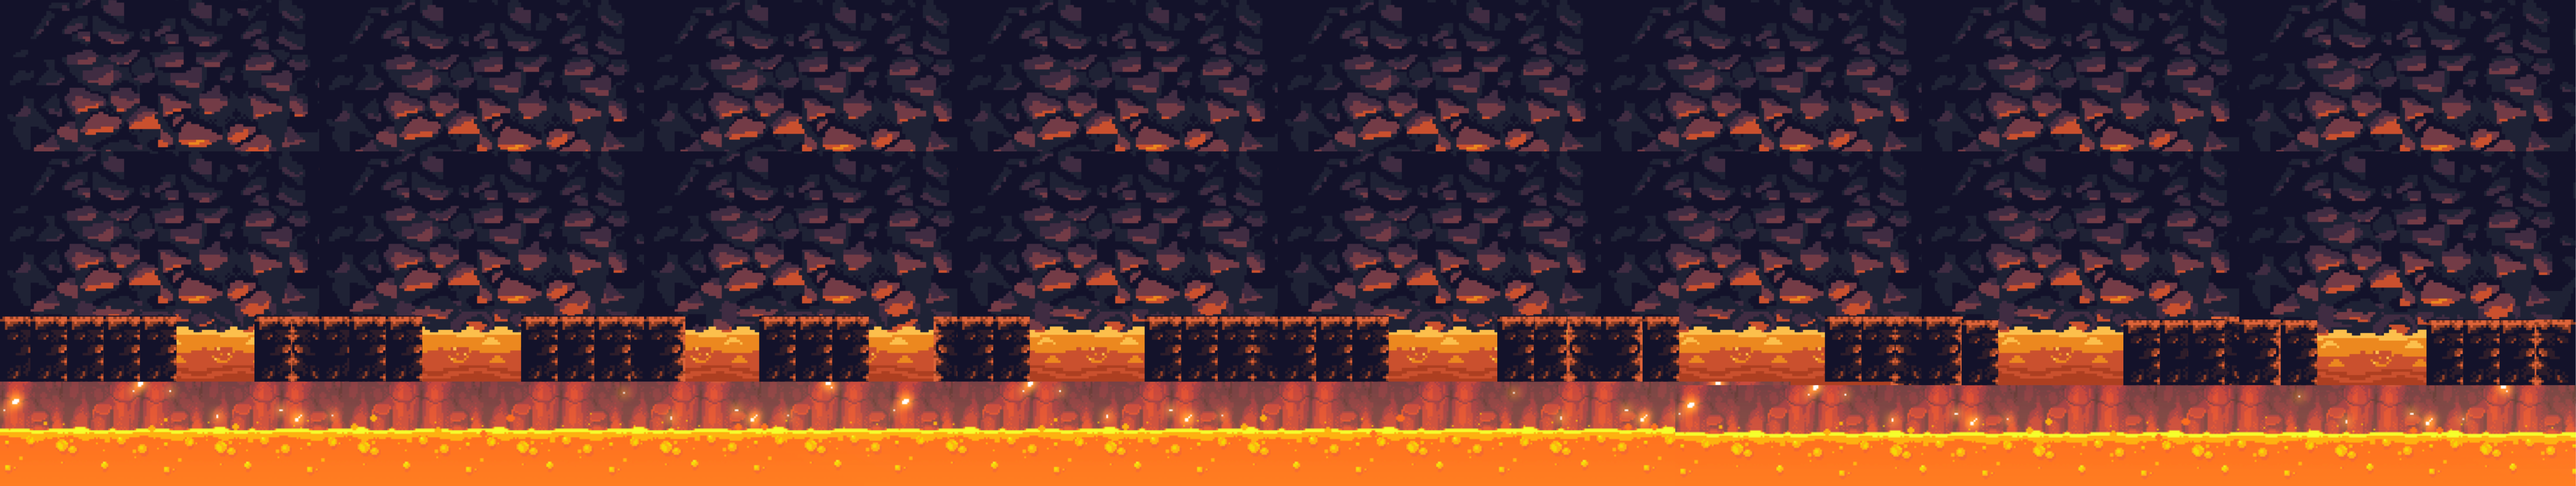
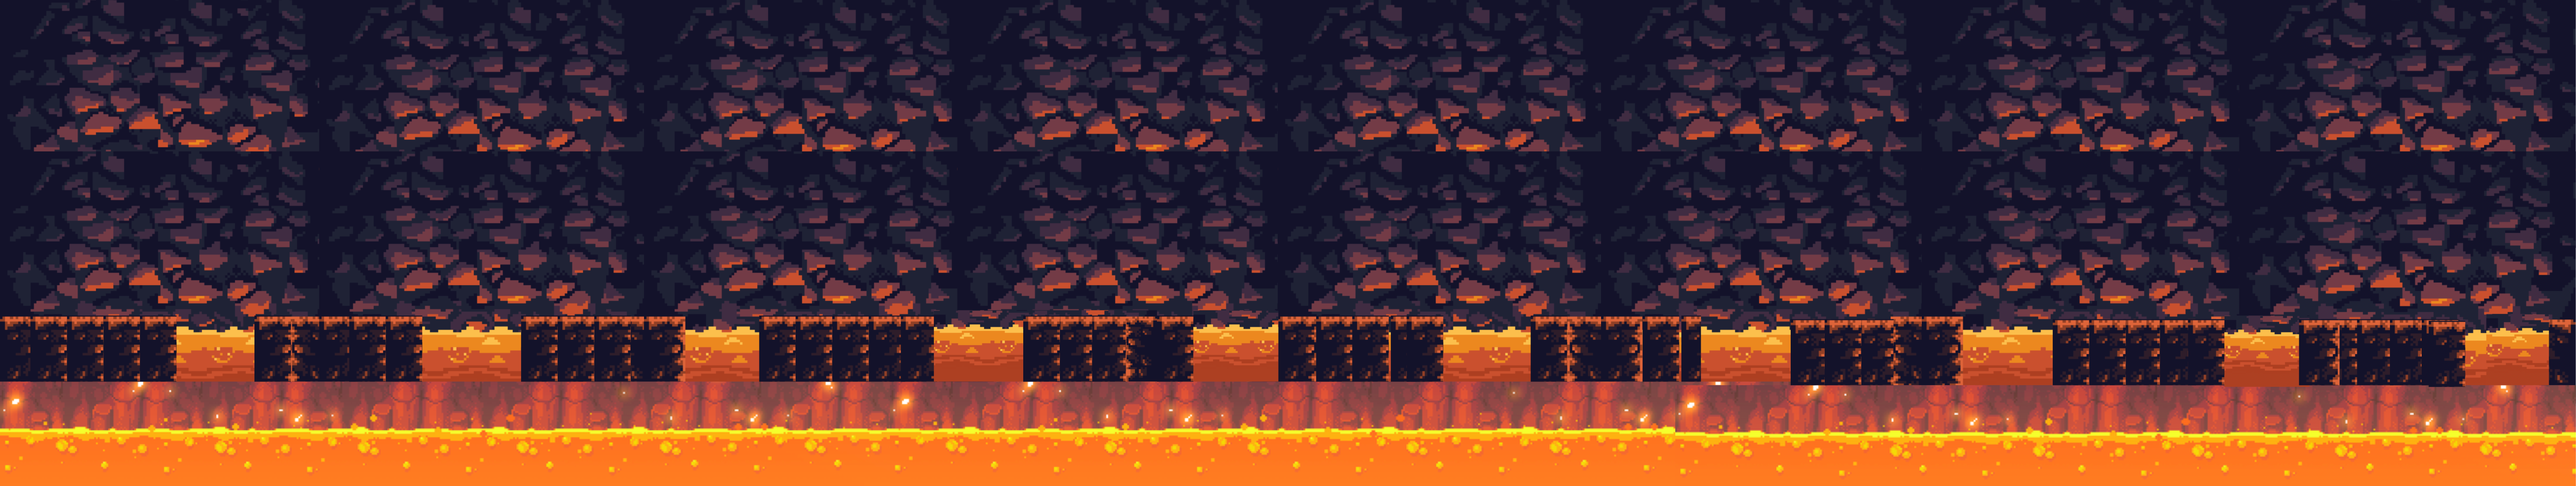
level3 en proceso

Changed region(s): [[0.625, 0.625, 1.0, 0.8125], [0.3125, 0.625, 0.5, 0.8125], [0.5312, 0.625, 0.5938, 0.7812]]

diff --git a/src/scenes/Level3.js b/src/scenes/Level3.js
@@ -94,20 +94,39 @@ class Level3 extends Phaser.Scene{
         
         //visible false 
         this.suelo.setVisible(false);
+
+        this.techo = this.physics.add.image(300, 100, 'BlockBlock');
+        this.techo.body.setAllowGravity(false);
+        this.techo.setImmovable();
+        this.techo.body.setSize(100000, 55, true);
+        //visible false 
+        this.techo.setVisible(false);
+        this.suelo.setVisible(false);
+
+        
         //FISICAS nami
-        this.nami = this.physics.add.sprite(1000, 120, 'nami').setOrigin(0.5,0.39).setScale(5);//AQUI SE AGREGA EL SPRITE
+        this.nami = this.physics.add.sprite(230, 120, 'nami').setOrigin(0.5,0.39).setScale(5);//AQUI SE AGREGA EL SPRITE
         this.lava = this.physics.add.sprite(0, 0, 'lava_idle').setVisible(false);//AQUI SE AGREGA EL SPRITE
 
         this.grupolava = this.physics.add.group({
             key: 'lava_idle',
-            repeat: 10,
+            repeat: 9,
             setXY: {
                 x: 490,
                 y: 790,
-                stepX: 700
+                stepX: 570
             }  
         });
 
+        this.grupolava2 = this.physics.add.group({
+            key: 'lava_idle',
+            repeat: 9,
+            setXY: {
+                x: 6250,
+                y: 790,
+                stepX: 570
+            }  
+        });
        
         //this.physics.add.existing(this.nami, true); //FORMA2 true
         this.nami.body.setCollideWorldBounds(false);
@@ -119,6 +138,7 @@ class Level3 extends Phaser.Scene{
 
         this.physics.add.collider(this.nami, this.suelo, () => {});
         this.physics.add.collider(this.lava, this.suelo, () => {});
+        this.physics.add.collider(this.nami, this.techo, () => {});
         // this.nami = this.physics.add.image(300, 720, 'nami');
         // this.nami.body.setAllowGravity(false);
 
@@ -369,11 +389,7 @@ class Level3 extends Phaser.Scene{
             console.log("colision nami con lava");
             this.cameras.main
             .setBackgroundColor(0x000000)
-            //.fadeOut(500);
-            // tiempo en milisegundos, intensidad en [0,1]
             .shake(500, 0.03);
-            //this.cameras.main.fadeIn(500);
-            //setVelocity(200);
             setTimeout(() => {
                 this.nami.setVelocityX( this.nami.body.velocity.x += 50);
                 this.nami.setVelocityY( this.nami.body.velocity.y -= 100);
@@ -383,31 +399,44 @@ class Level3 extends Phaser.Scene{
                 this.nami.body.velocity.x = 0;
                 this.nami.body.velocity.y = 0;
              }, 400);
-            //  this.physics.add.overlap(this.nami,this.grupo04,() => {
-            //     this.grupo.getChildren()[this.contadorVida].visible = false;
-            //     this.contadorVida--;});
-            // this.nami.once(Phaser.Animations.Events.SPRITE_ANIMATION_COMPLETE, () => {
-            //     this.grupo.getChildren()[this.contadorVida].visible = false;
-            //     this.contadorVida--;
-            // });
-           
-             // restarVida();
-            //this.events.off('restarVida');
-            //this.events.once('addImage', this.handler, this);
-            // this.nami.setVelocityX(this.nami.body.velocity.x -=20);
-            // this.nami.setVelocityY(0);
-            // this.nami.setVelocityX( this.nami.body.velocity.x -= 100);
-            // this.nami.setVelocityY( this.nami.body.velocity.y += 500);   
-            // setInterval(() => {
-            //     this.colisionPinchos = true;
-            // }, 1000);
-            // if(this.colisionPinchos)
-            // setInterval(() => {
-            //             if(colision);
-            //             bandera == false;
-            //         }, 1000);
+
+             
+            
             
         });
+
+        this.grupolava2.children.iterate( (lava) => {
+            lava.body.setAllowGravity(false);
+            lava.setScale(1.3);
+            //FISICAS Pincho
+            this.physics.add.existing(lava, true); //FORMA2 true
+            lava.setImmovable(true);
+            lava.body.setSize(150,110);
+            lava.anims.play("lava_idle");
+        } );
+
+        this.physics.add.collider(this.nami, this.grupolava2, () => {    
+            this.ok = 1;
+            console.log("colision nami con lava");
+            this.cameras.main
+            .setBackgroundColor(0x000000)
+            .shake(500, 0.03);
+            setTimeout(() => {
+                this.nami.setVelocityX( this.nami.body.velocity.x += 50);
+                this.nami.setVelocityY( this.nami.body.velocity.y -= 100);
+                this.nami.anims.play('nami_takehit');
+            }, 100);
+            setTimeout(() => {
+                this.nami.body.velocity.x = 0;
+                this.nami.body.velocity.y = 0;
+             }, 400);
+
+             
+            
+            
+        });
+
+        
         function restarVida() {
             this.grupo.getChildren()[this.contadorVida].visible = false;
             this.contadorVida--;
@@ -465,7 +494,7 @@ class Level3 extends Phaser.Scene{
             this.nami.body.setSize(23, 50, true); 
             this.nami.body.setOffset(85,60);
             if(!this.teclas.izq.isDown){
-                this.nami.x += 3;
+                this.nami.x += 6;
                 this.grupo.children.iterate( (corazon) => {
                     corazon.x = (-800 + this.nami.x ) + (y*100);
                     y++;
@@ -518,7 +547,7 @@ class Level3 extends Phaser.Scene{
         if (this.teclas.izq.isDown)
         {
             if(!this.teclas.der.isDown){
-                this.nami.x -= 3;
+                this.nami.x -= 6;
                 this.grupo.children.iterate( (corazon) => {
                     corazon.x = (-800 + this.nami.x) + (y*100);
                     y++;

diff --git a/src/scenes/Map.js b/src/scenes/Map.js
@@ -32,11 +32,11 @@ class Map extends Phaser.Scene {
         this.fondo = this.add.image(0, 0, "MapaA").setOrigin(0, 0).setDepth(-1).setScale(1.5),
 
         //Imagen de Titulo
-        this.title = this.add.image(
-            this.width / 2,
-            this.height / 2 - 250,
-            "Title",
-        ).setDepth(0).setScale(1.1);
+        // this.title = this.add.image(
+        //     this.width / 2,
+        //     this.height / 2 - 250,
+        //     "Title",
+        // ).setDepth(0).setScale(1.1);
         //Circulos
         this.circle1 = this.add.image(
             this.width / 2 - 350,
